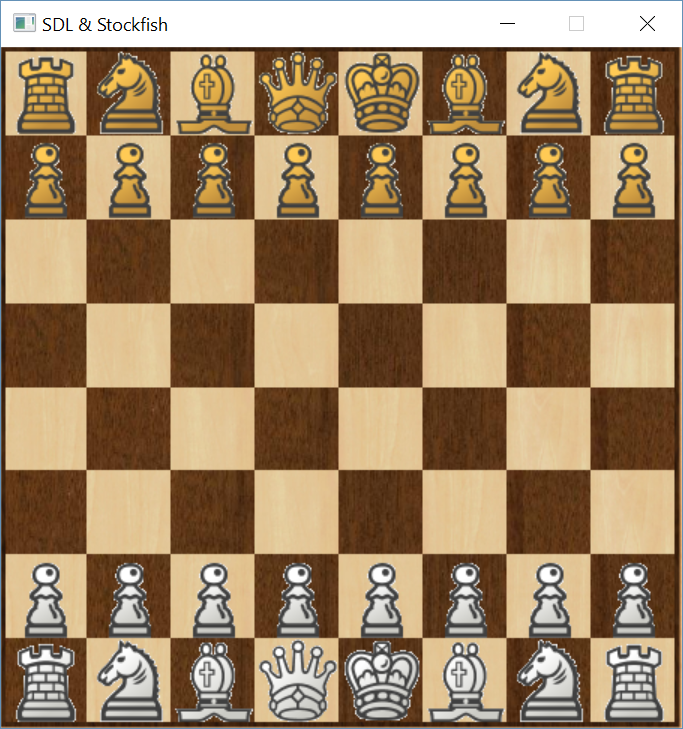
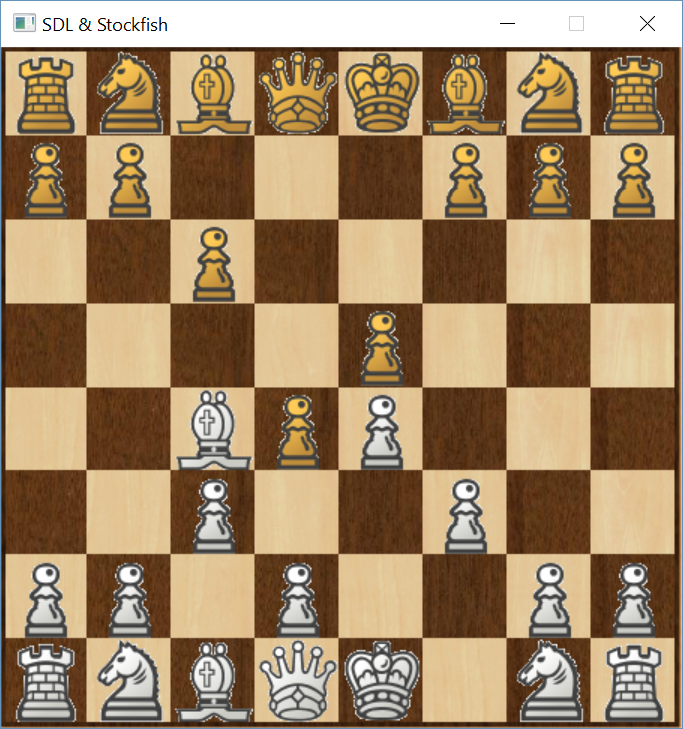
Added StockFish adapter

diff --git a/SDL/Source.cpp b/SDL/Source.cpp
@@ -1,8 +1,8 @@
 #include <iostream>
 #include <fstream>
 #include <SDL.h>
-#include <SDL_image.h>
 #include <map>
+#include "Connector.hpp"
 
 // Ported to SDL from https://www.youtube.com/user/FamTrinli chess tutorial in SFML
 
@@ -26,6 +26,7 @@ std::map<const char, SDL_Texture *> Textures;
 std::map<const char, std::string> Bitmaps;
 const int posX = 100, posY = 100;
 const int sizeX = 454, sizeY = 454;
+std::string lastMove = "";
 std::string moves = "";
 
 std::string toChessNote(SDL_Point & position)
@@ -50,20 +51,19 @@ void performMove(std::string str)
 	SDL_Point newPos = toBoard(str[2], str[3]);
 	std::cout << "X:" << oldPos.x << "Y:" << oldPos.y << " " << board[oldPos.y][oldPos.x] << std::endl;
 	std::cout << "X:" << newPos.x << "Y:" << newPos.y << " " << board[newPos.y][newPos.x] << std::endl;
-	if (board[oldPos.y][oldPos.x] != 0 && board[newPos.y][newPos.x] == 0) {
+	// source position not empty 
+	if (board[oldPos.y][oldPos.x] != 0) {
 		board[newPos.y][newPos.x] = board[oldPos.y][oldPos.x];
 		board[oldPos.y][oldPos.x] = 0;
 	}
-
 /*
 	//castling       //if the king didn't move
-	if (str == "e1g1") if (position.find("e1") == -1) move("h1f1");
-	if (str == "e8g8") if (position.find("e8") == -1) move("h8f8");
-	if (str == "e1c1") if (position.find("e1") == -1) move("a1d1");
-	if (str == "e8c8") if (position.find("e8") == -1) move("a8d8");
+	if (str == "e1g1") if (moves.find("e1") == -1) performMove("h1f1");
+	if (str == "e8g8") if (moves.find("e8") == -1) performMove("h8f8");
+	if (str == "e1c1") if (moves.find("e1") == -1) performMove("a1d1");
+	if (str == "e8c8") if (moves.find("e8") == -1) performMove("a8d8");
 	*/
 }
-
 
 int main(int argc, char ** argv) {
 	SDL_Window *win = NULL;
@@ -101,6 +101,9 @@ int main(int argc, char ** argv) {
 		Figures[-i] = SDL_Rect{ (i - 1)*FigureSize, 0, FigureSize, FigureSize};
 		Figures[i] = SDL_Rect{ (i - 1)*FigureSize, FigureSize, FigureSize, FigureSize};
 	}
+
+	ConnectToEngine("stockfish_9_x64.exe");
+
 	while (1) {
 		SDL_Event e;
 		if (SDL_PollEvent(&e)) {
@@ -113,7 +116,7 @@ int main(int argc, char ** argv) {
 				mousePos.x = e.motion.x;
 				mousePos.y = e.motion.y;
 				if (e.button.button == SDL_BUTTON_LEFT){
-					moves = toChessNote(mousePos).c_str();
+					lastMove = toChessNote(mousePos).c_str();
 				}
 			}
 			/* Mouse button up */
@@ -122,14 +125,21 @@ int main(int argc, char ** argv) {
 				mousePos.x = e.motion.x;
 				mousePos.y = e.motion.y;
 				if (e.button.button == SDL_BUTTON_LEFT) {
-					std::string newPos = toChessNote(mousePos);
-					if (moves != newPos) {
-						moves += newPos;
-						std::cout << "Move to execute:" << moves.c_str() << std::endl;
-						performMove(moves);
+					std::string newMove = toChessNote(mousePos);
+					if (lastMove != newMove) {
+						lastMove += newMove;
+						std::cout << "Player move: " << lastMove.c_str() << std::endl;
+						performMove(lastMove);
+						moves += lastMove + " ";
+						// obtain StockFish move
+						std::string moveStock = getNextMove(moves);
+						std::cout << "Stockfish move:" << moveStock.c_str() << std::endl;
+						performMove(moveStock);
+						moves += moveStock + " ";
+						std::cout << "Gameplay: " << moves << std::endl;
 					}
 					else
-						moves = "";
+						lastMove = "";
 				}
 			}
 		}
@@ -169,5 +179,6 @@ int main(int argc, char ** argv) {
 	SDL_DestroyWindow(win);
 	SDL_Quit();
 	std::cout << "SDL_Quit\n";
+	CloseConnection();
 	return 0;
 }

diff --git a/readme.md b/readme.md
@@ -4,11 +4,12 @@
 
 Simple chess in SDL.
 Ported to SDL from https://www.youtube.com/user/FamTrinli tutorials.
-
+  
+No moves correctness check implemented yet...
 ## Running
 
+Install Stockfish or use included exe file.
 ```
-Install Stockfish  
 https://stockfishchess.org/
 ```
 
